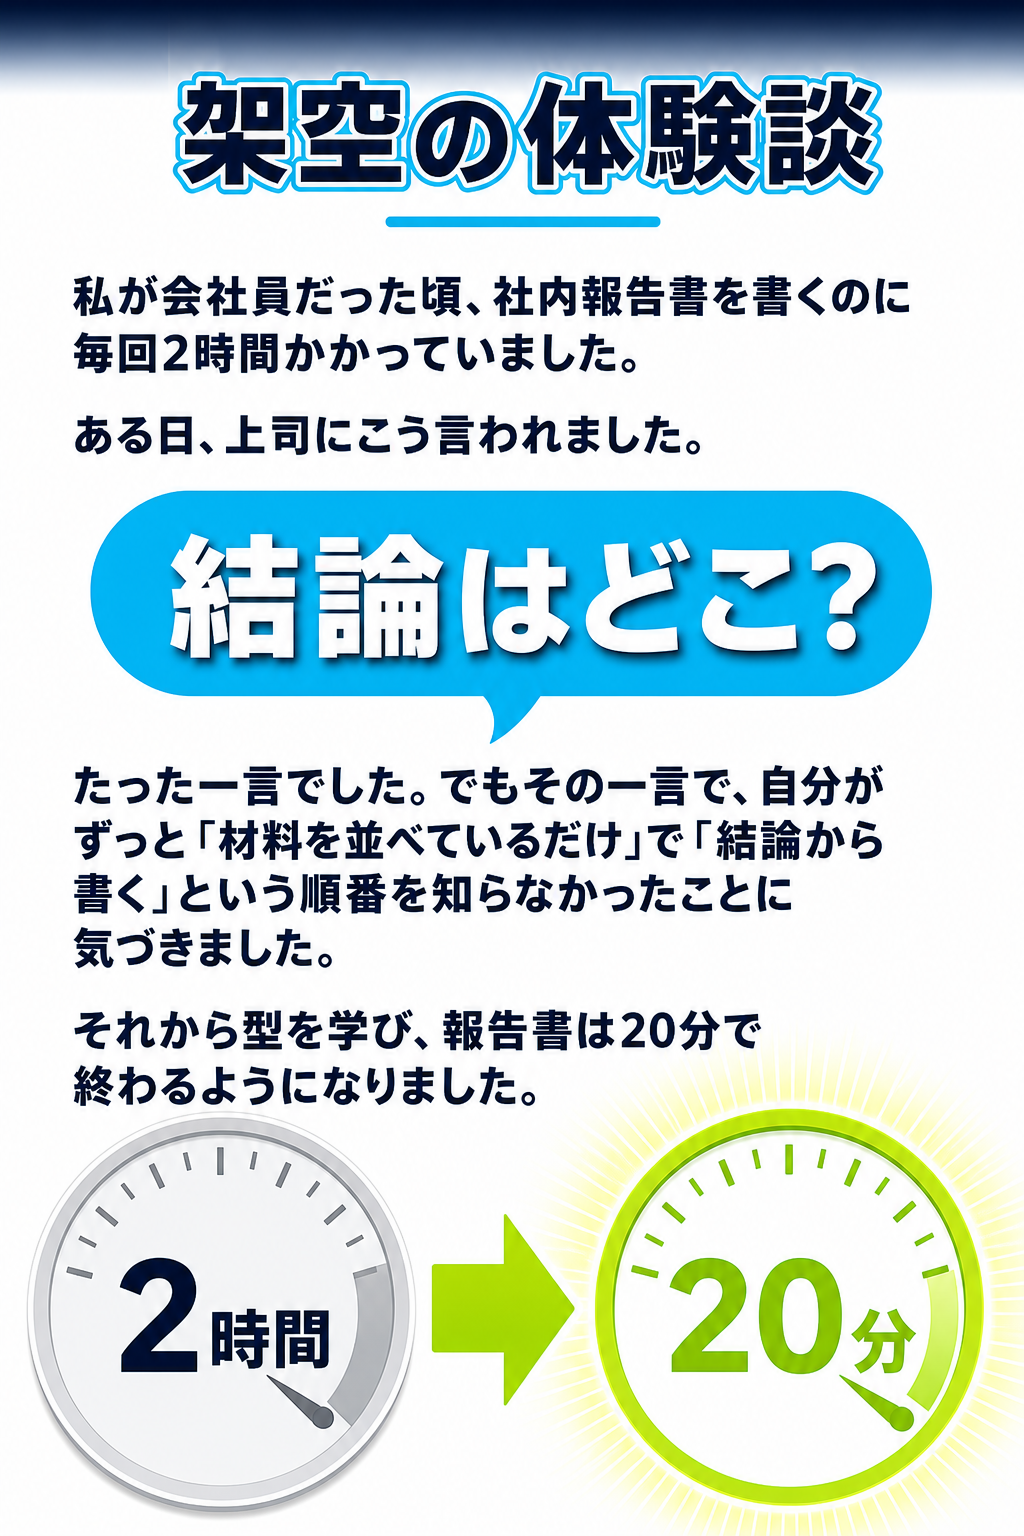
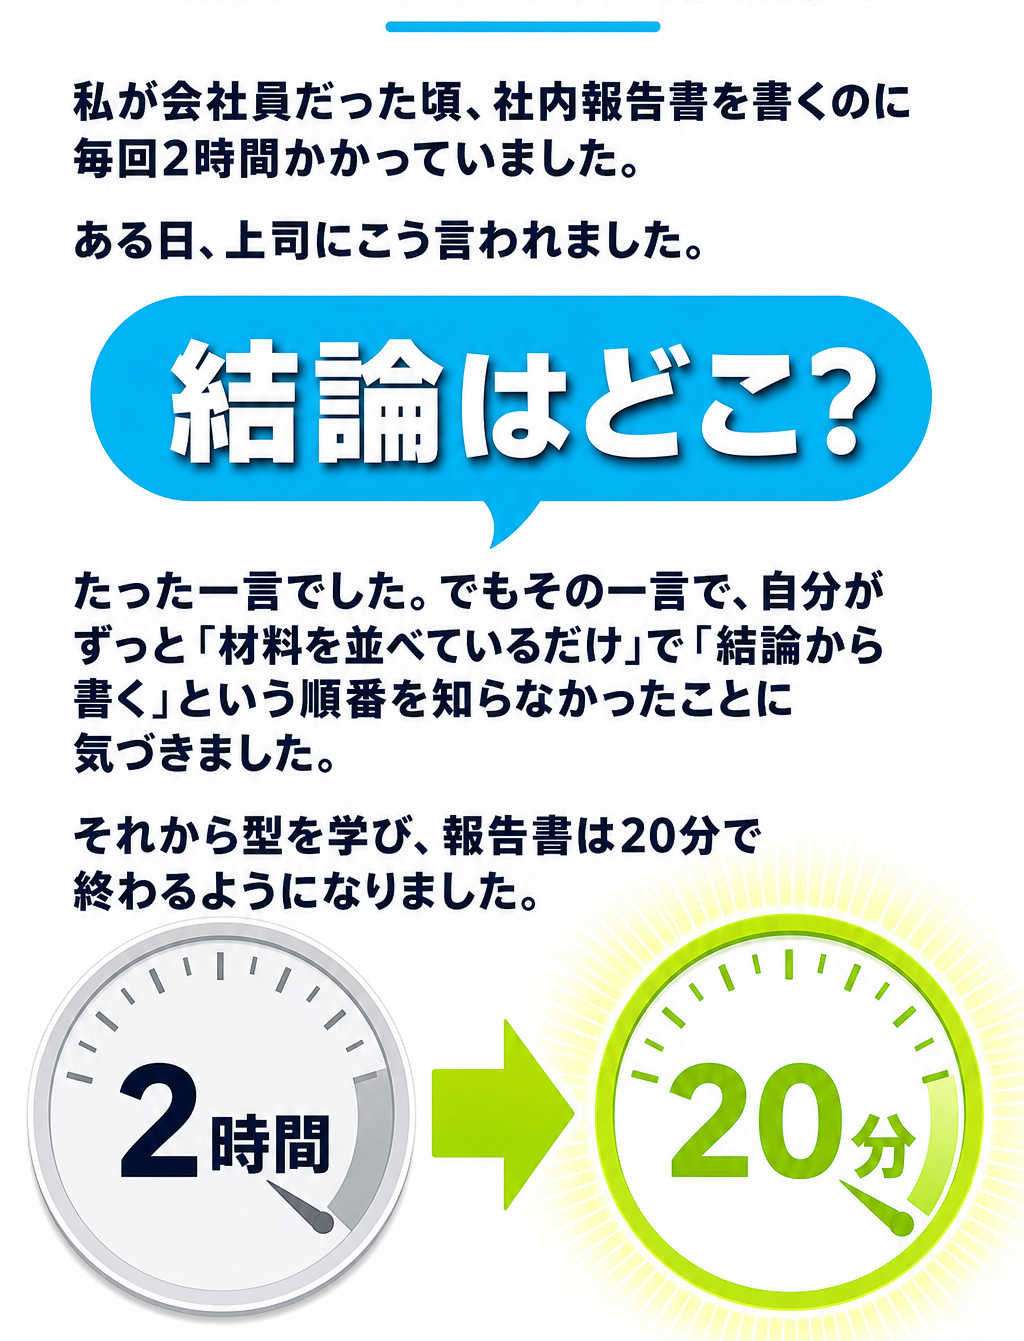
なべとも式57テストv5: ボタンリンク修正・04/05トリミング・06の03カード白

diff --git a/nabetomo57-test/index.html b/nabetomo57-test/index.html
@@ -10,7 +10,7 @@
   .lp{max-width:860px;margin:0 auto;}
   .sec{position:relative;display:block;}
   .sec img{width:100%;display:block;}
-  .hotspot{position:absolute;display:block;border-radius:999px;}
+  .hotspot{position:absolute;display:block;border-radius:0;}
   .hotspot:hover{outline:3px solid #b8e62e;outline-offset:2px;}
   .demo-note{background:#0a1020;color:#6b7594;text-align:center;font:12px/1.8 sans-serif;padding:16px;}
 </style>
@@ -19,7 +19,7 @@
 <div class="lp">
   <div class="sec">
     <img src="images/lp_01.png" alt="ファーストビュー">
-    <a class="hotspot" href="#" style="left:13.5%; top:79.7%; width:73.2%; height:5.2%;" aria-label="テスト用ダミーボタン"></a>
+    <a class="hotspot" href="#" style="left:13.0%; top:78.3%; width:74.0%; height:13.8%;" aria-label="テスト用ダミーボタン"></a>
   </div>
   <div class="sec"><img src="images/lp_02.png" alt="こんな悩みはありませんか"></div>
   <div class="sec"><img src="images/lp_03.png" alt="なぜ文章がうまくならないのか"></div>
@@ -28,7 +28,7 @@
   <div class="sec"><img src="images/lp_06.png" alt="このコースで手に入ること"></div>
   <div class="sec">
     <img src="images/lp_07.png" alt="テスト用CTA">
-    <a class="hotspot" href="#" style="left:11.5%; top:49.4%; width:76.6%; height:20.1%;" aria-label="テスト用ダミーボタン"></a>
+    <a class="hotspot" href="#" style="left:11.1%; top:48.0%; width:77.3%; height:25.5%;" aria-label="テスト用ダミーボタン"></a>
   </div>
   <div class="demo-note">※本ページはなべとも式AI-LP-57の動作テスト用ダミーLPです。商品・人物・体験談はすべて架空です。</div>
 </div>